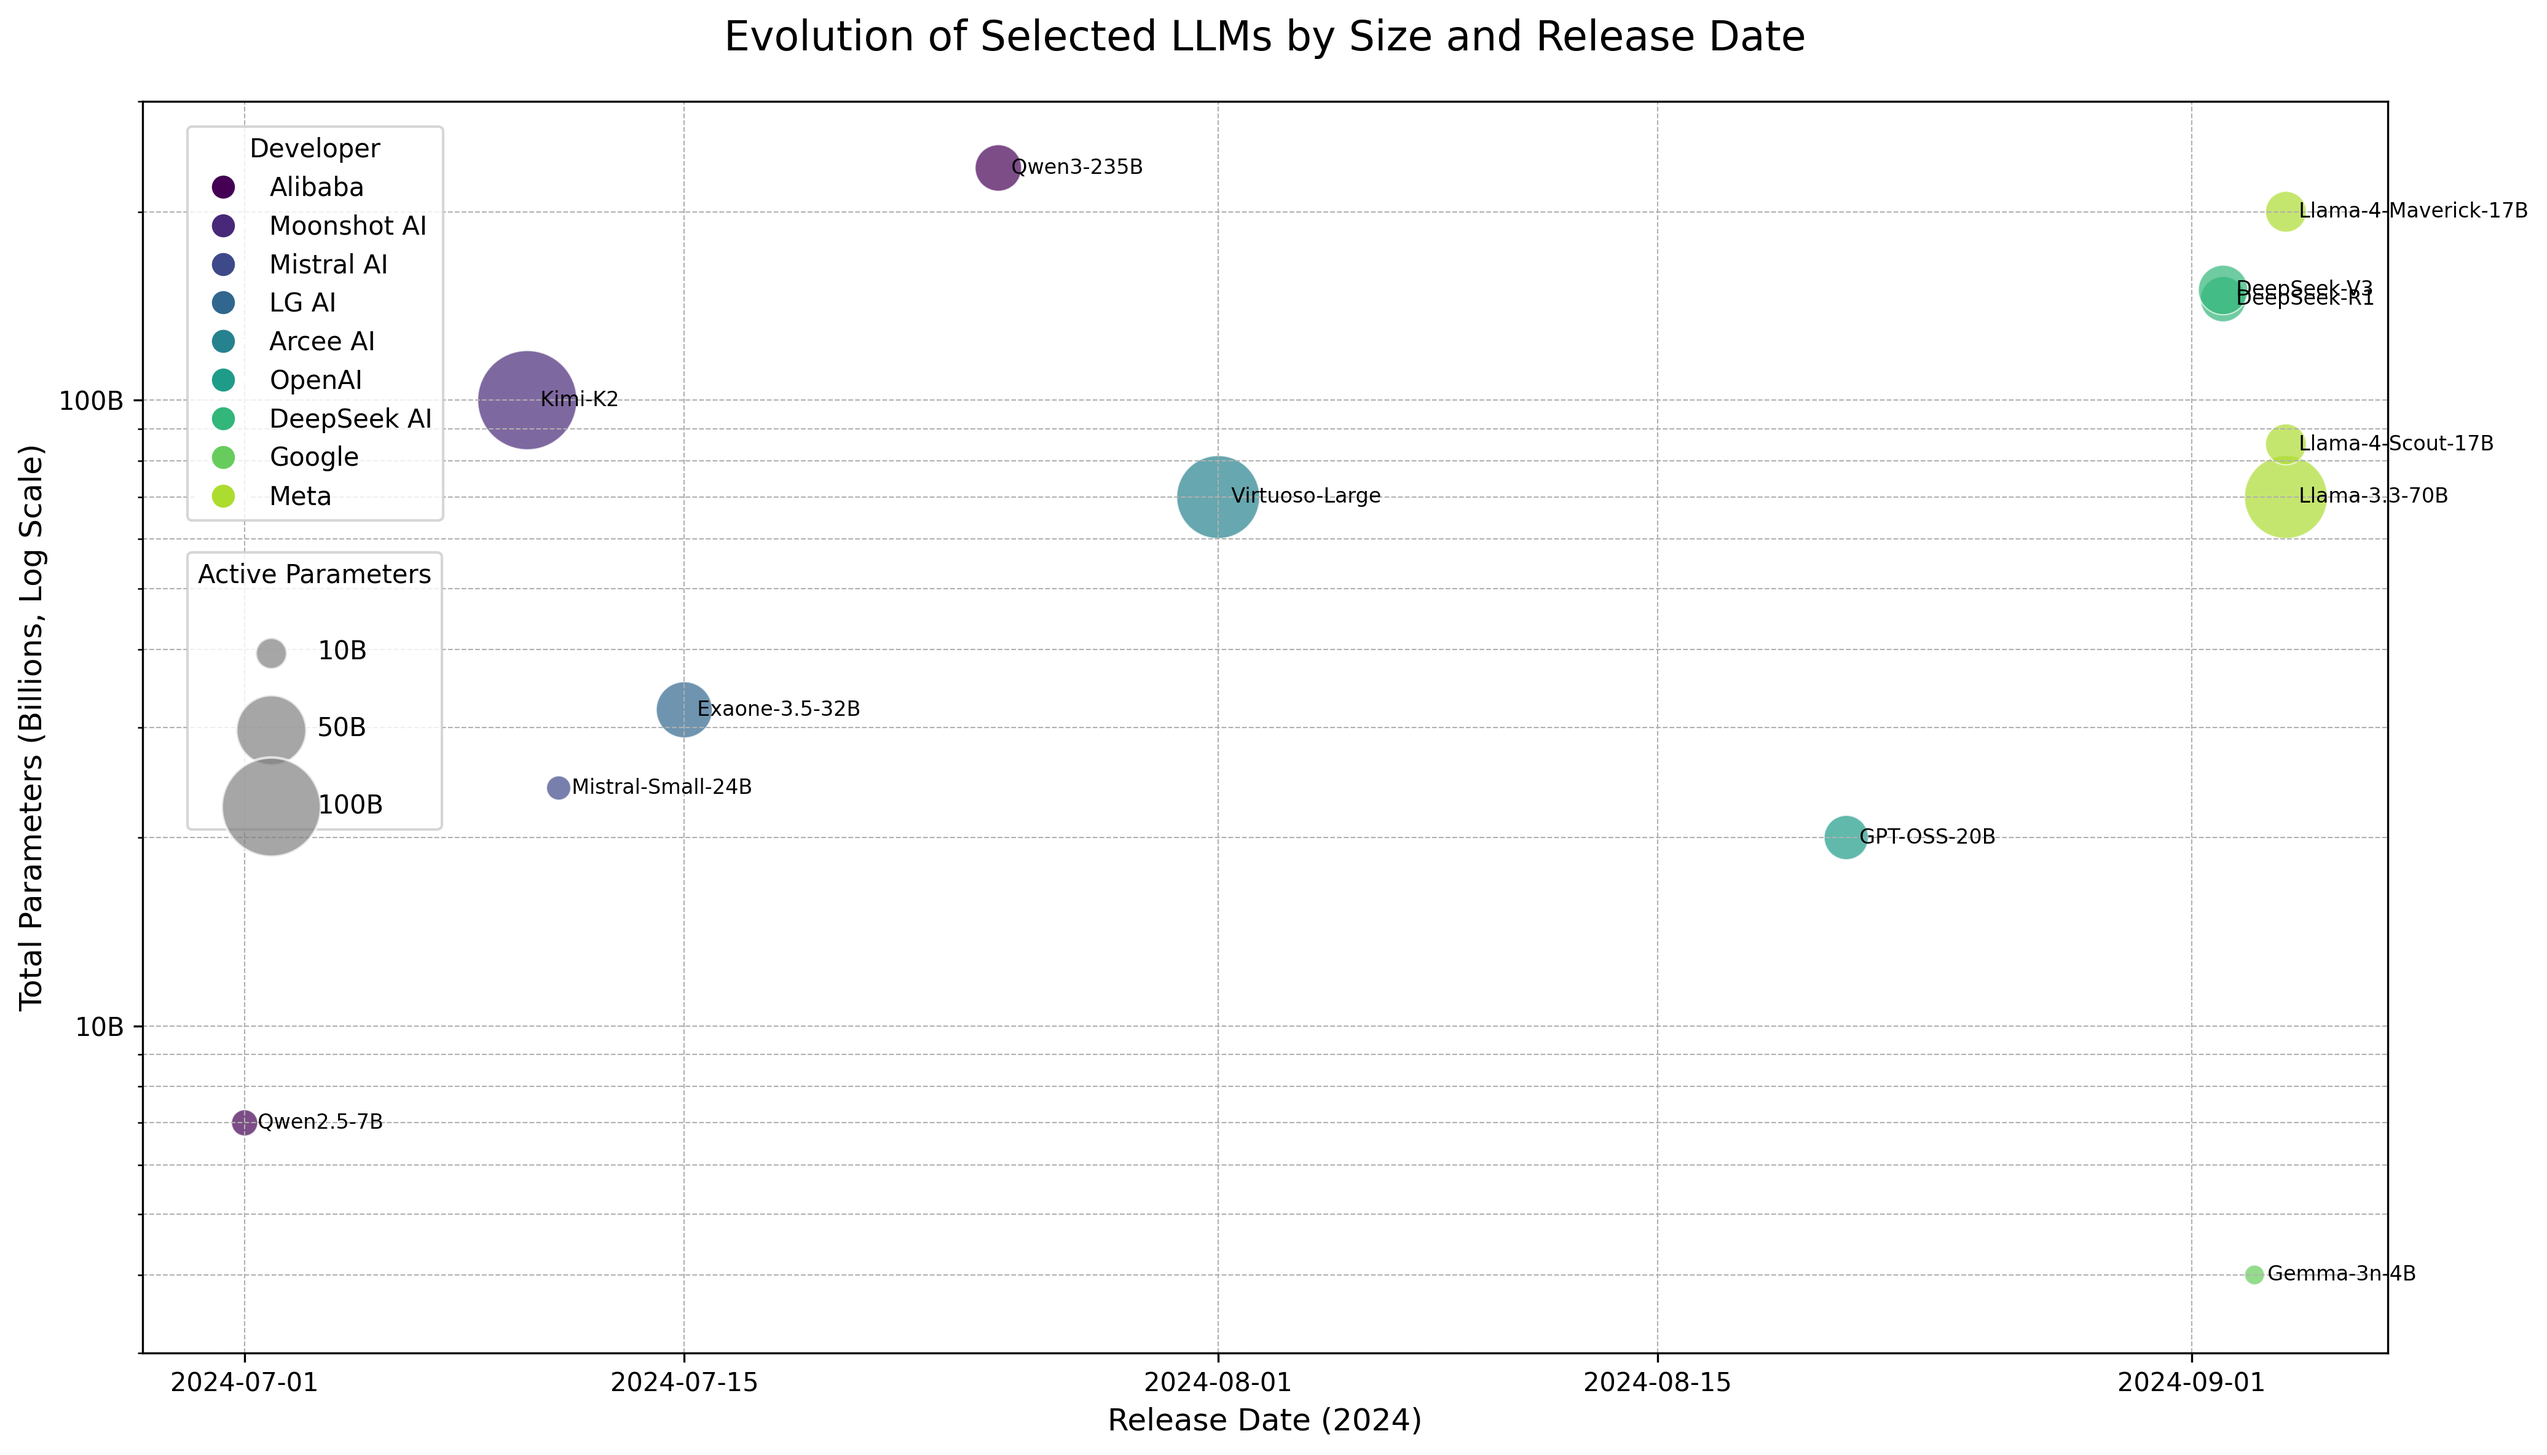
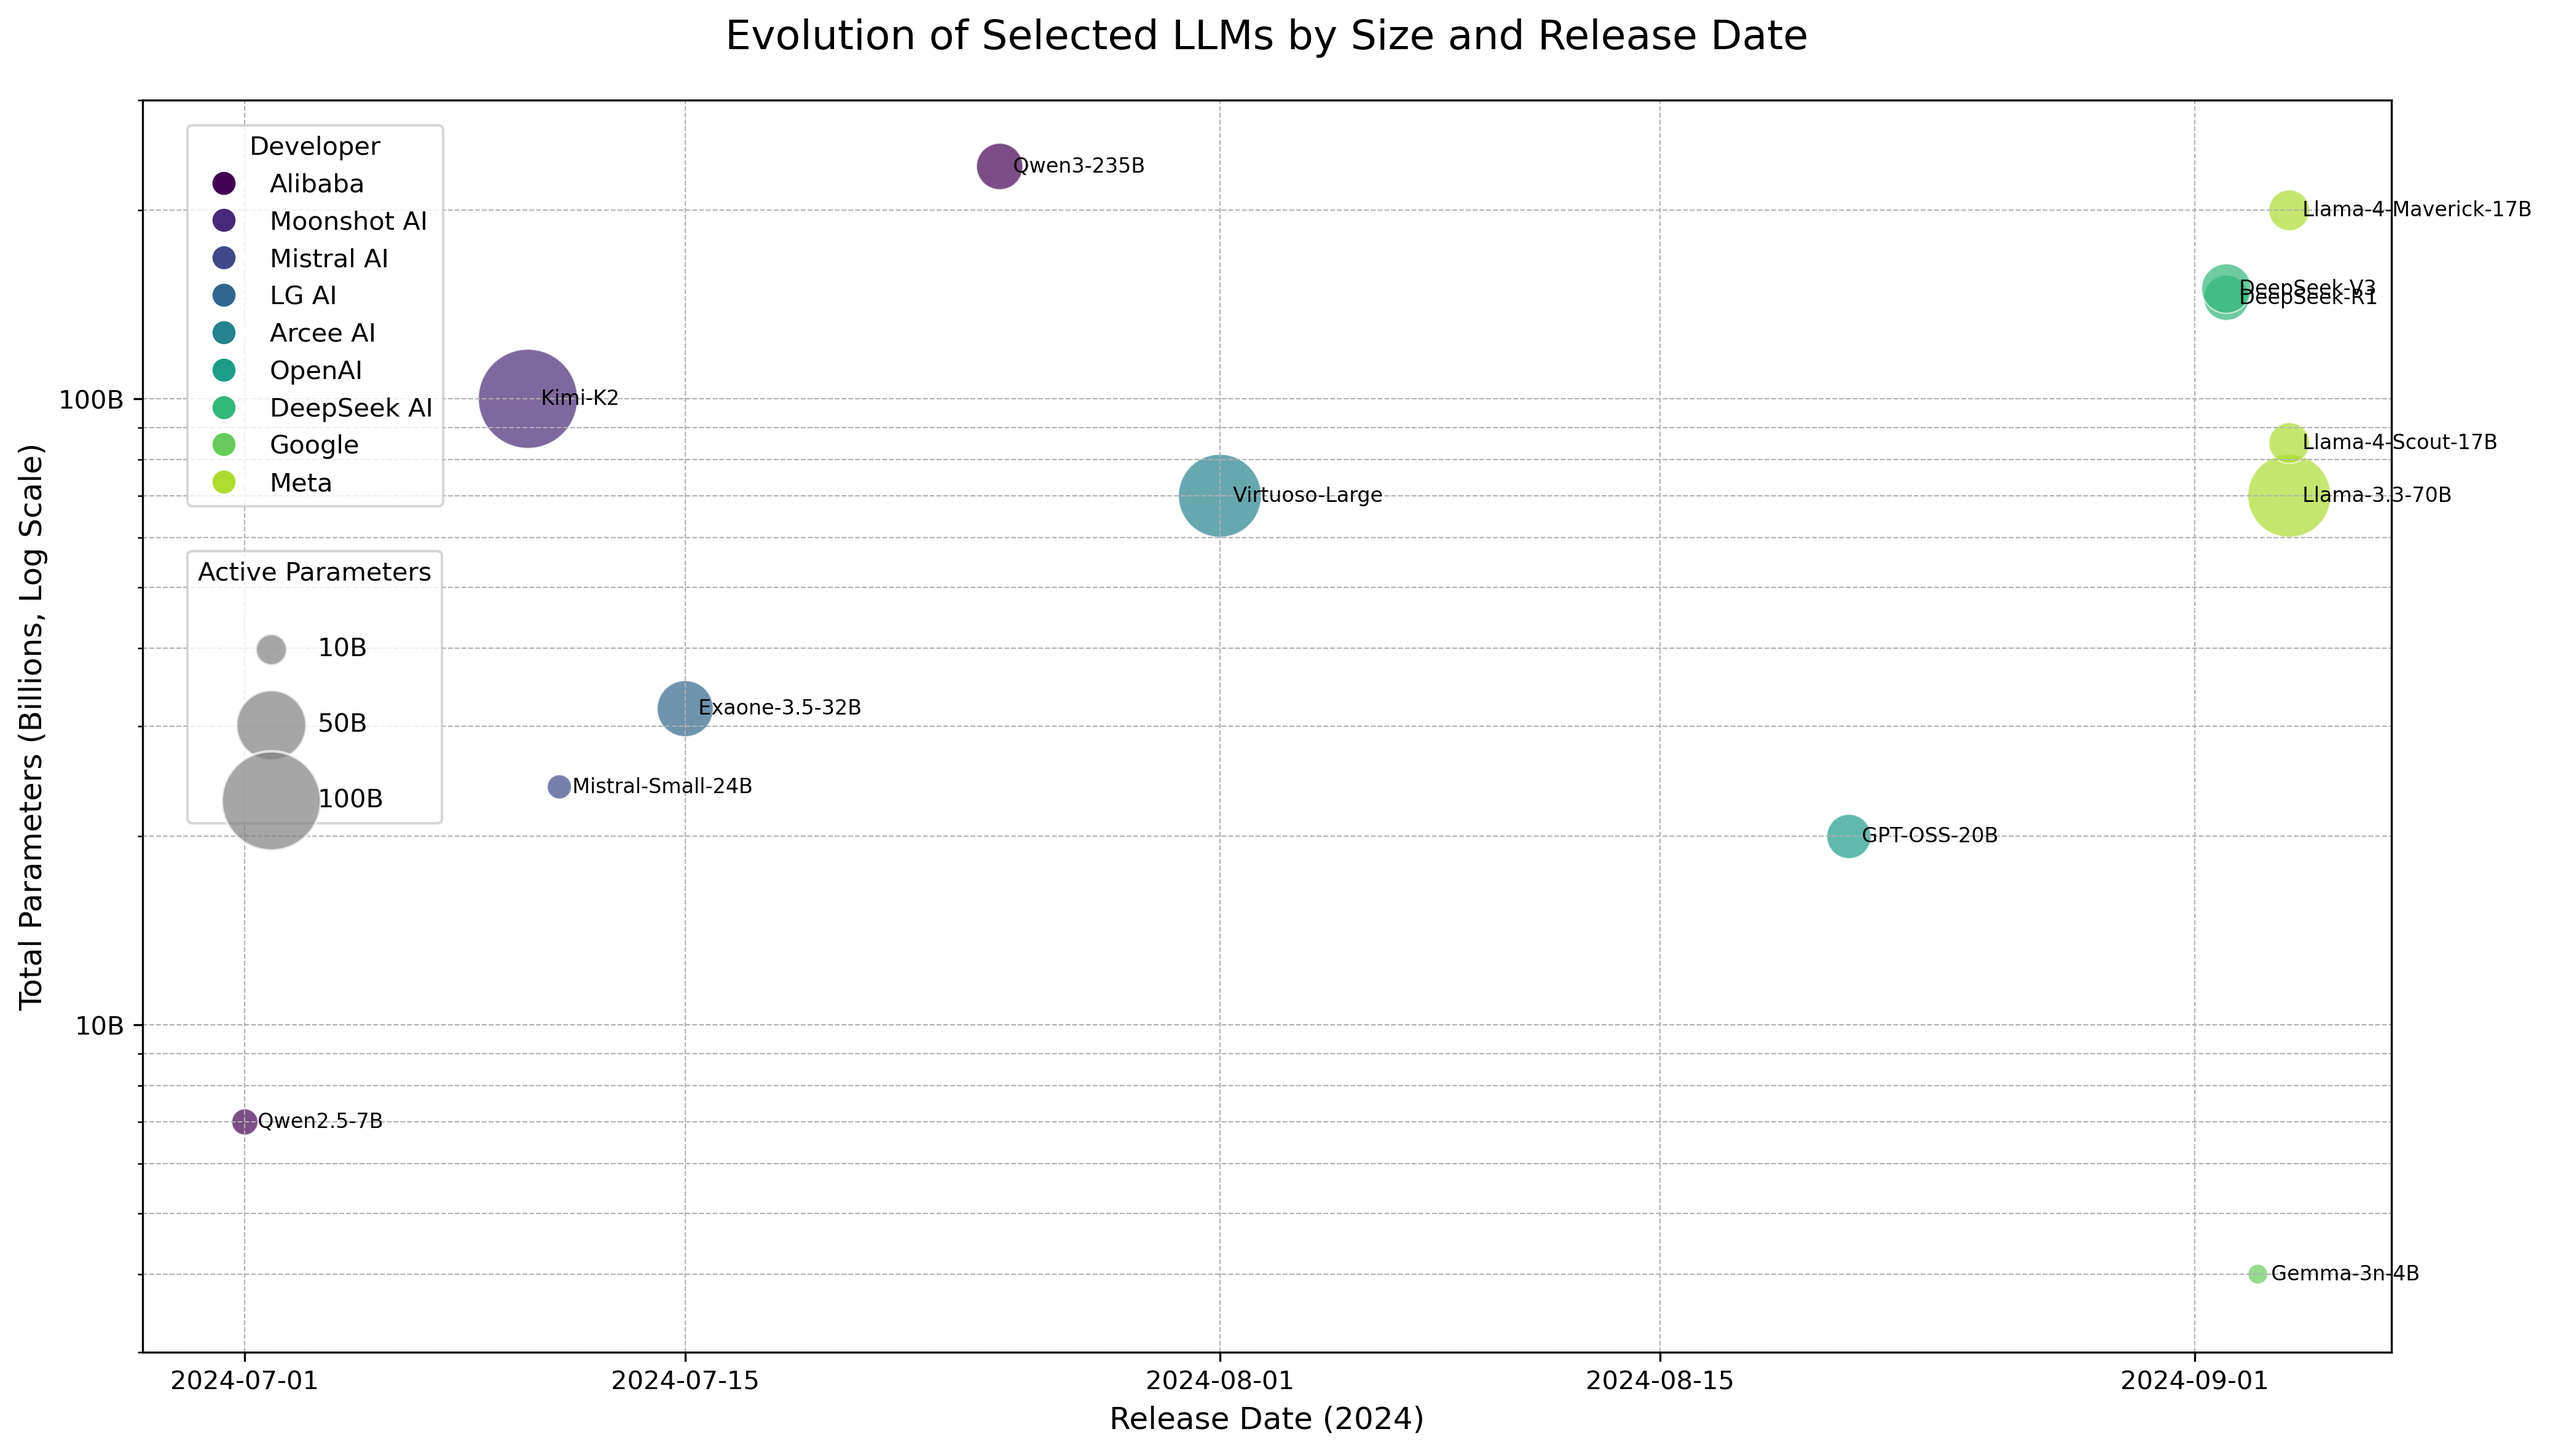
add plots + judge fix

diff --git a/plot_generators/parse_visual.py b/plot_generators/parse_visual.py
@@ -12,10 +12,11 @@ RESULTS_FILES = [
     'results/1_test_results.json',
     'results/2_test_results.json',
     'results/3_test_results.json',
-    'results/4_test_results.json'
+    'results/4_test_results.json',
+    'results/5_test_results.json'
 ]
-YESNO_PLOT_FILE = 'consistency_yesno_quadrant_map.png'
-SCALE_PLOT_FILE = 'consistency_scale_diagonal_map.png'
+YESNO_PLOT_FILE = 'analysis_reports/consistency_yesno_quadrant_map.png'
+SCALE_PLOT_FILE = 'analysis_reports/consistency_scale_diagonal_map.png'
 A4_LANDSCAPE_FIGSIZE = (11.5, 7.5)
 
 YES_WORDS = {
@@ -135,6 +136,7 @@ def create_yesno_heatmap(df):
     cbar.set_label('Number of "Yes" Responses', rotation=270, labelpad=10)
     
     fig.subplots_adjust(left=0.18, right=0.89, top=0.92, bottom=0.15)
+    os.makedirs(os.path.dirname(YESNO_PLOT_FILE), exist_ok=True)
     plt.savefig(YESNO_PLOT_FILE, dpi=300, bbox_inches='tight')
     print(f"Yes/No consistency heatmap saved to '{YESNO_PLOT_FILE}'")
     plt.show()
@@ -217,6 +219,7 @@ def create_scale_heatmap(df):
     ax.legend(handles=[annot_patch], title='Cell Annotation Format', bbox_to_anchor=(1.01, 1), loc='upper left')
     
     fig.subplots_adjust(left=0.17, right=0.83, top=0.9, bottom=0.25)    
+    os.makedirs(os.path.dirname(SCALE_PLOT_FILE), exist_ok=True)
     plt.savefig(SCALE_PLOT_FILE, dpi=300, bbox_inches='tight')
     print(f"Scale divergence heatmap saved to '{SCALE_PLOT_FILE}'")
     plt.show()

diff --git a/plot_generators/llm_chart.py b/plot_generators/llm_chart.py
@@ -1,6 +1,7 @@
 import pandas as pd
 import matplotlib.pyplot as plt
 import matplotlib.ticker as mticker
+import os
 from datetime import datetime
 
 model_data = [
@@ -123,7 +124,7 @@ model_data = [
     },
 ]
 
-def create_model_timeline_plot(data, output_path="model_timeline_plot.png"):
+def create_model_timeline_plot(data, output_path="analysis_reports/model_timeline_plot.png"):
     """
     Generates a scatter plot of models over time, showing total vs. active parameters.
     """
@@ -189,6 +190,7 @@ def create_model_timeline_plot(data, output_path="model_timeline_plot.png"):
 
     fig.tight_layout()
     
+    os.makedirs(os.path.dirname(output_path), exist_ok=True)
     plt.savefig(output_path, dpi=300, bbox_inches='tight')
     print(f"Plot saved successfully to '{output_path}'")
     plt.show()

diff --git a/plot_generators/language_summary_plots.py b/plot_generators/language_summary_plots.py
@@ -13,7 +13,8 @@ RESULTS_FILES = [
     'results/1_test_results.json',
     'results/2_test_results.json',
     'results/3_test_results.json',
-    'results/4_test_results.json'
+    'results/4_test_results.json',
+    'results/5_test_results.json'
 ]
 OUT_DIR = os.path.join("analysis_reports", "simple")
 
